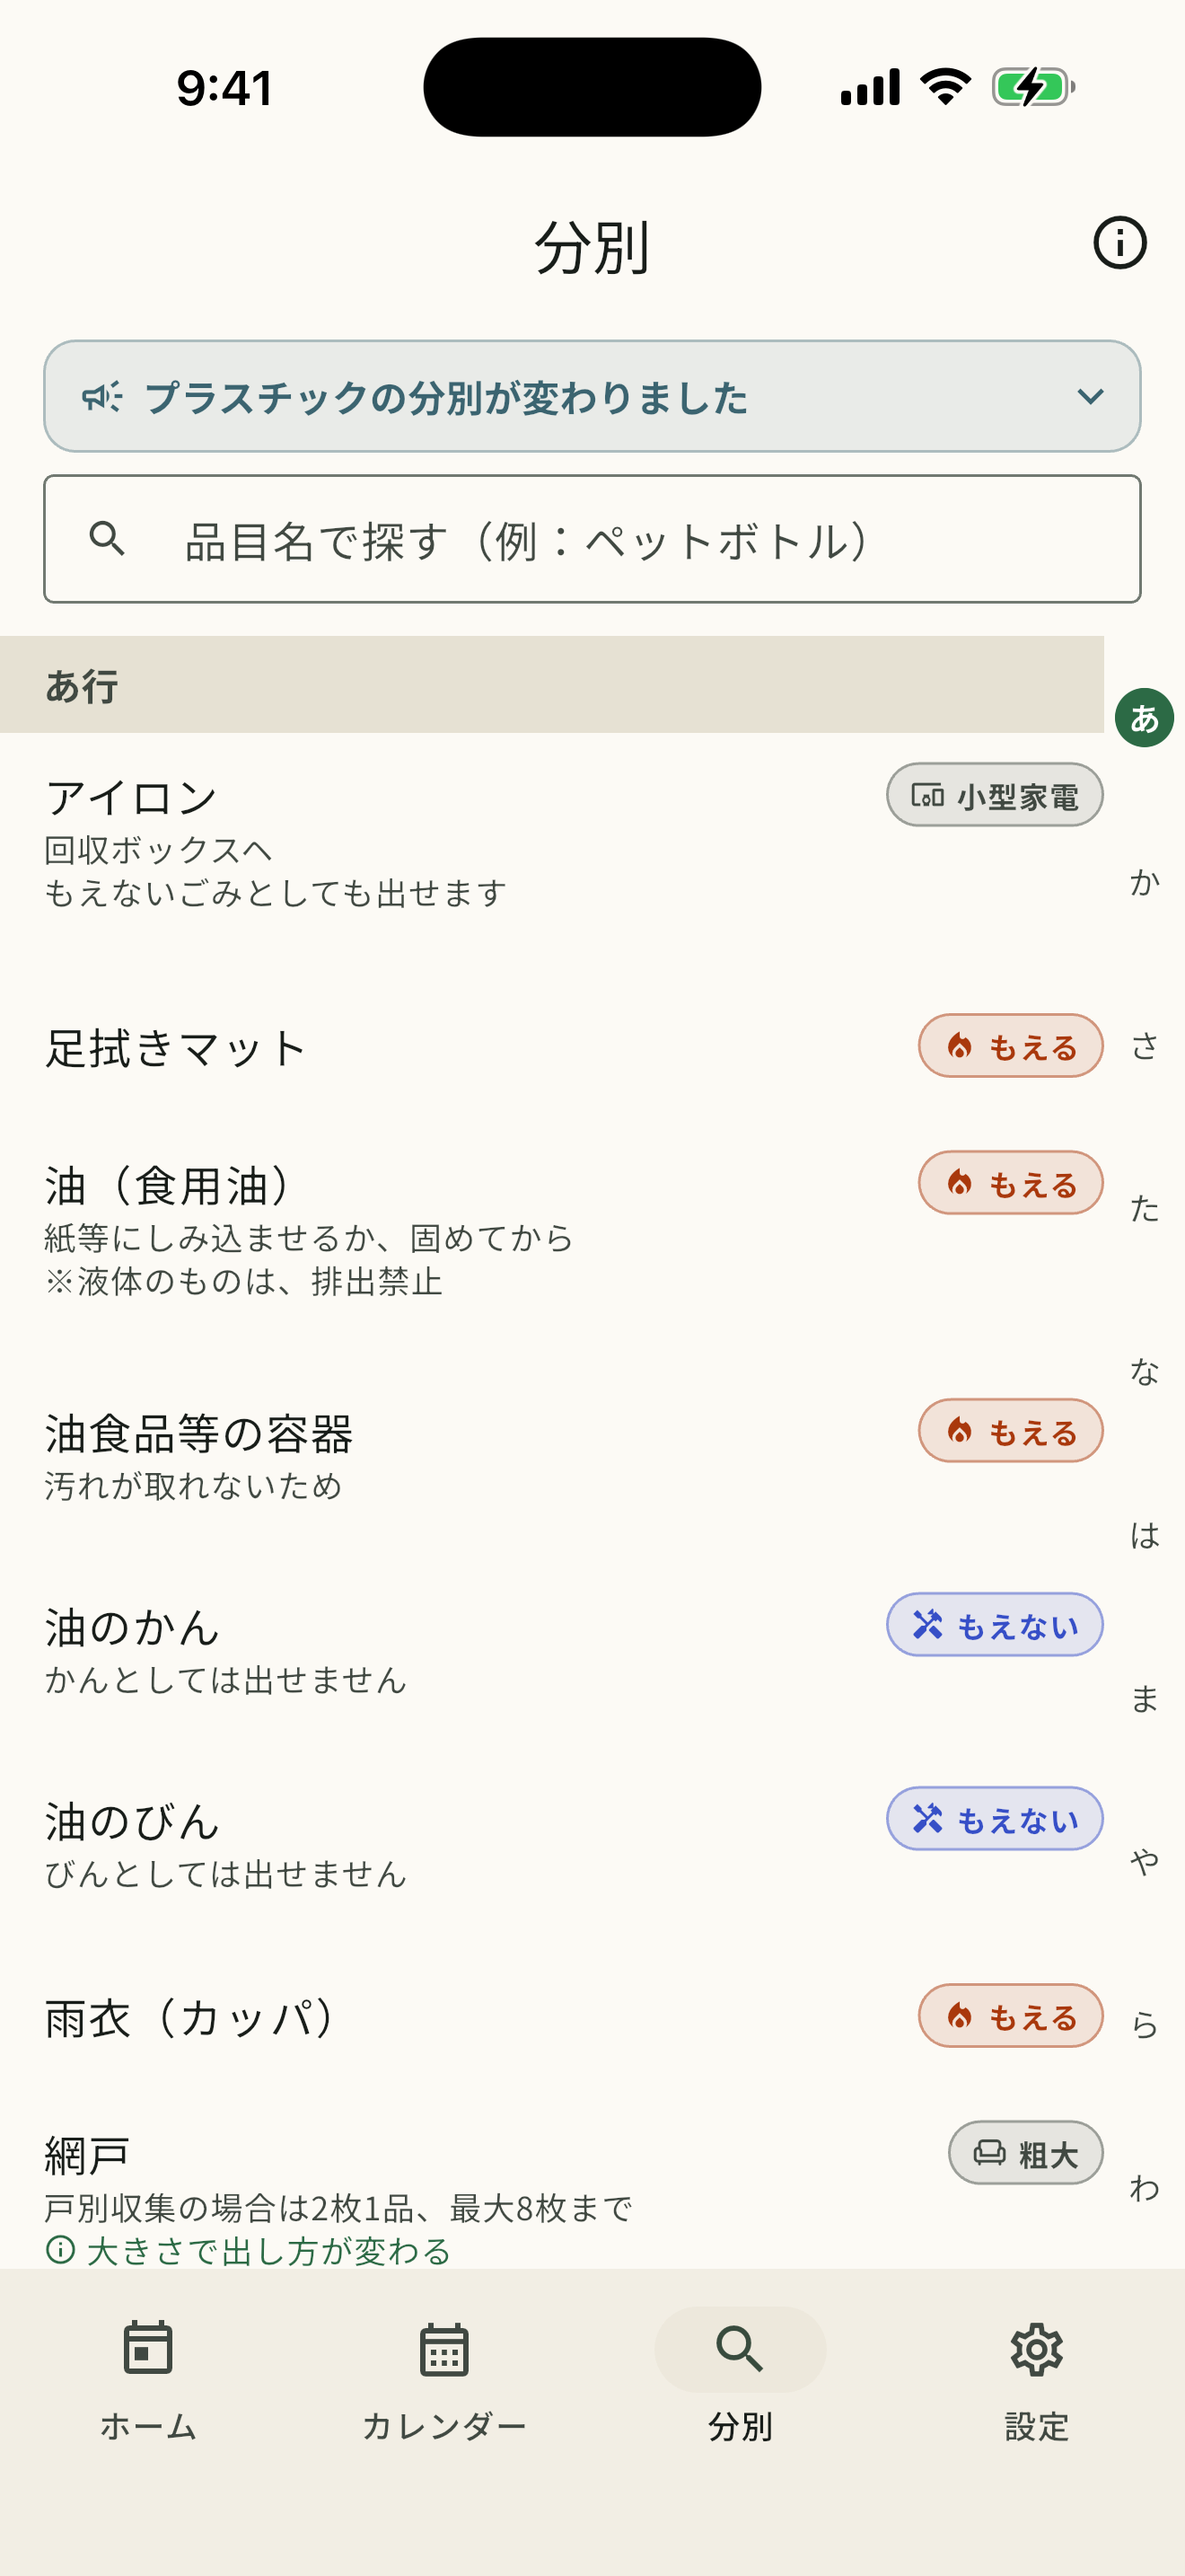
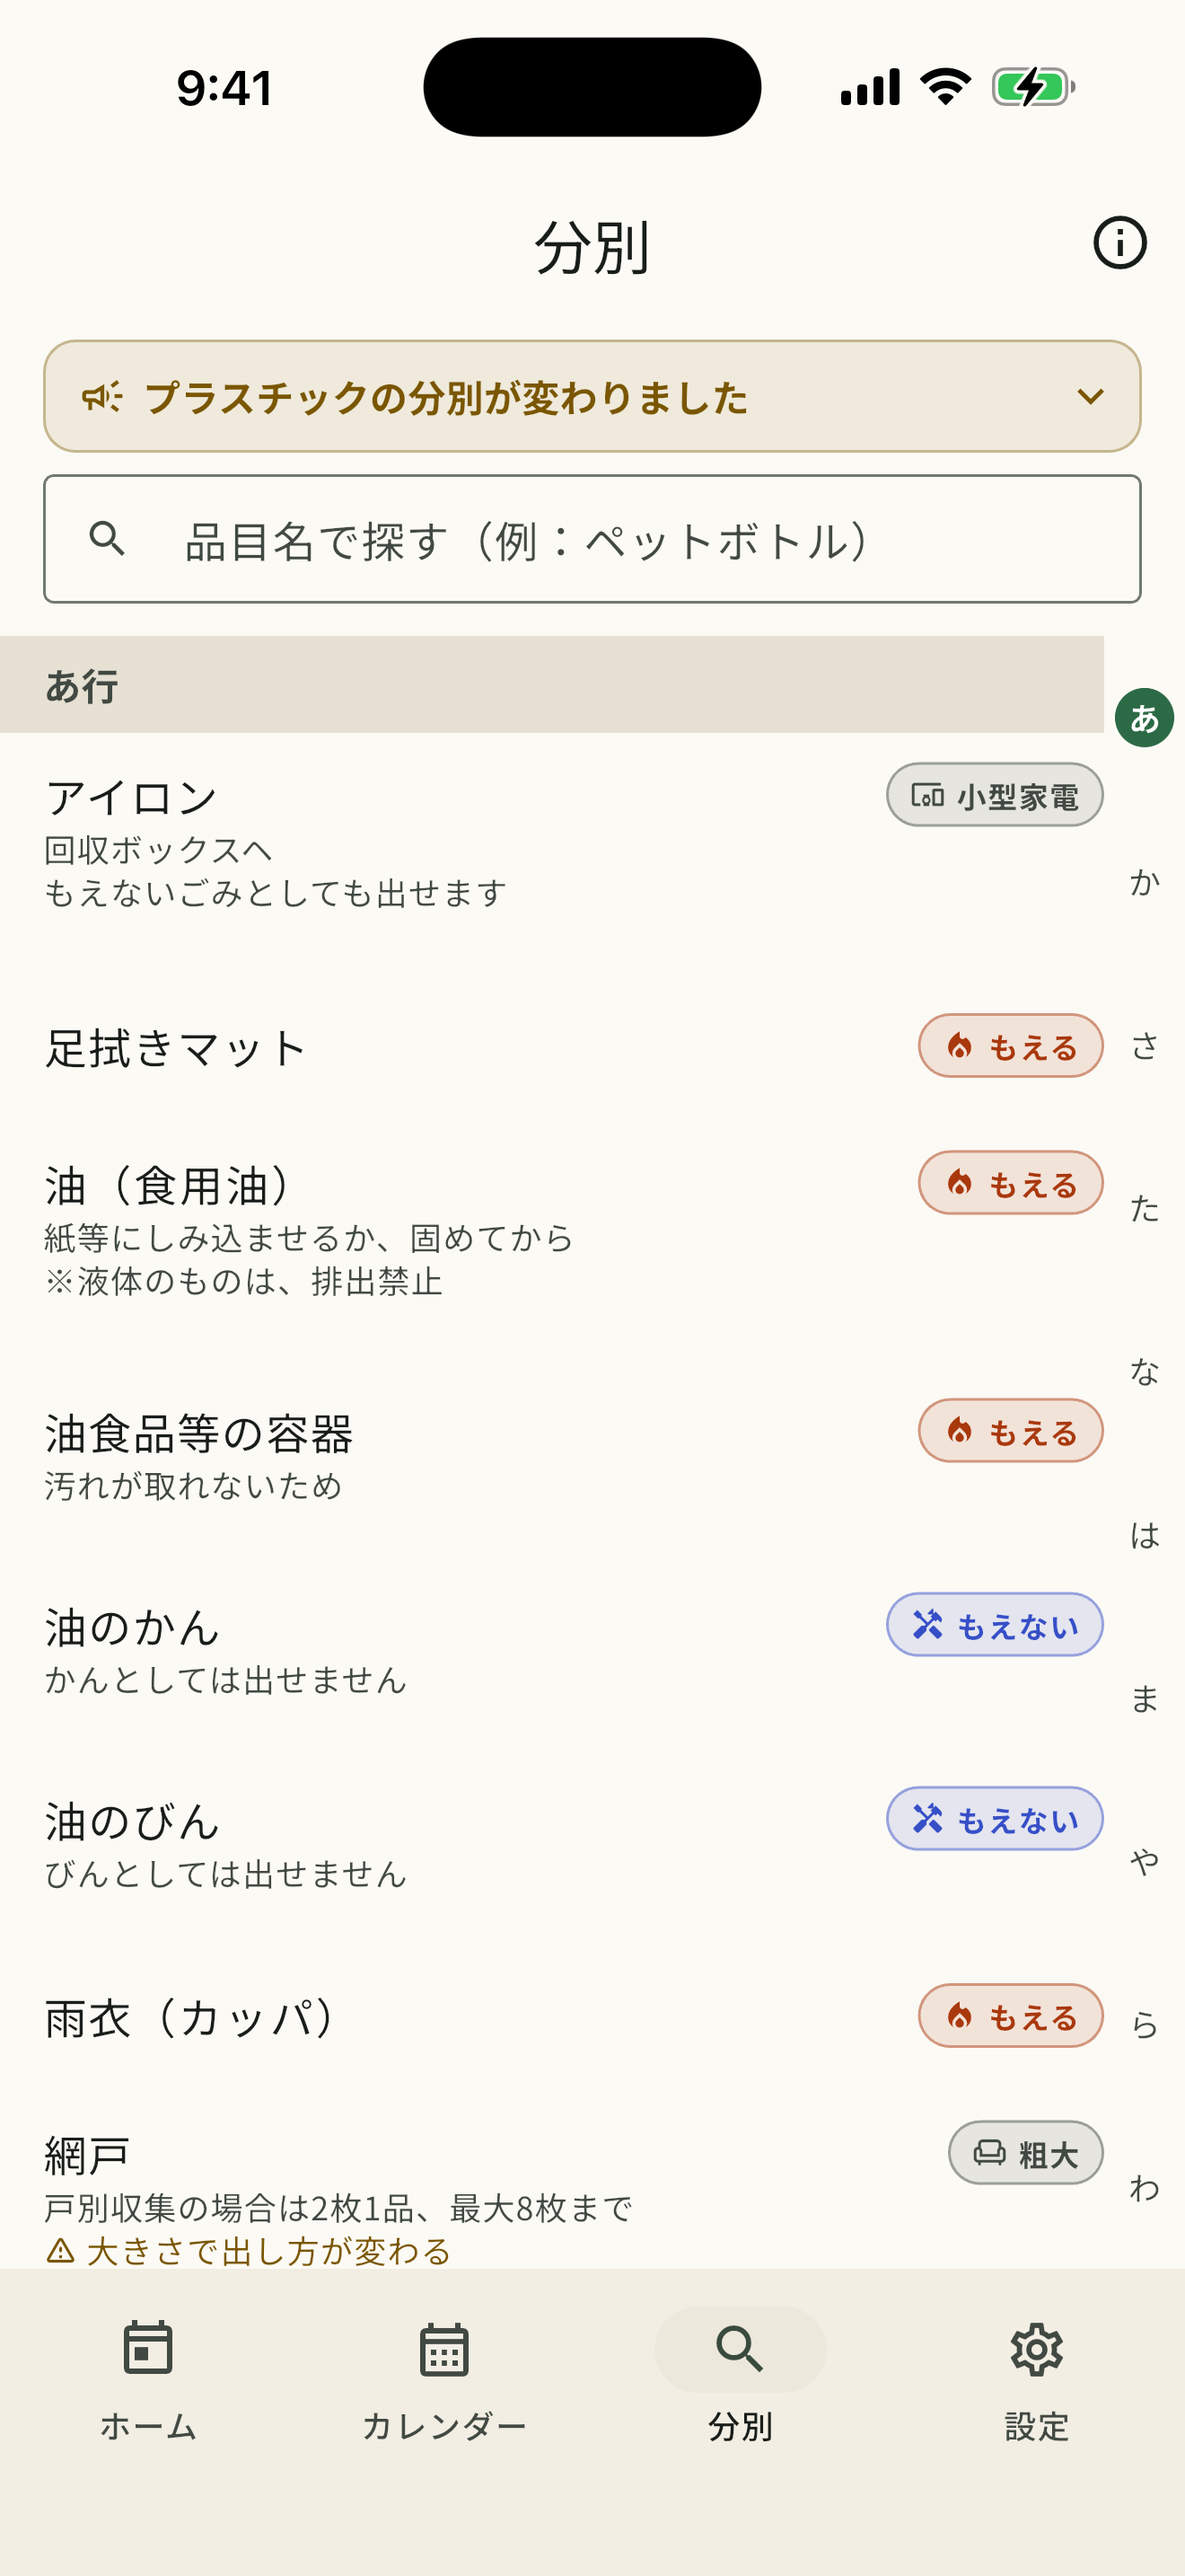
知らせと品目の印を、同じ注意の色（黄）で出す
分別変更の知らせは青みのグレー、品目の印は主色の緑で出していて、#163で
分別の変更を伝える印だけを知らせの色に寄せた。しかし印はどれも、一覧の
区分だけを見て出すと間違えることを伝えるもので、分ける理由がない。
緑では「できる・よい」の意味に読めて、注意に見えない。

知らせも印も、同じ注意の色（黄）で出す。印の絵は情報（i）から注意（三角）に
する。

- lightは黄土色（#7A5600）。黄色そのものはクリームの地の上では読めない。
  知らせの地（同じ色を10%で敷いたもの）の上でも4.5:1を超える
- darkは黄（#FFD43B）
- 赤にはしない。もえるごみ・有害危険ごみの区分色と紛れ、「出しては
  いけない」の意味にも読める

知らせの色が変わるので、分別のスクリーンショットを撮り直した。
ビルド番号を28に上げる。

Claude-Session: https://claude.ai/code/session_01Ny9iz78XEEn5LZebqm3xXE

diff --git a/lib/features/dictionary/dictionary_page.dart b/lib/features/dictionary/dictionary_page.dart
@@ -7,6 +7,7 @@ import '../../domain/kana.dart';
 import '../../domain/sorting_change.dart';
 import '../../domain/waste_item.dart';
 import '../../providers.dart';
+import '../../ui/caution_style.dart';
 import '../../ui/note_format.dart';
 import '../../ui/paren_wrap.dart';
 import '../../ui/widgets/category_pill.dart';
@@ -358,15 +359,14 @@ class _SortingChangeNotice extends StatelessWidget {
   @override
   Widget build(BuildContext context) {
     final theme = Theme.of(context);
-    // 区分色と紛れないよう、注意そのものの色（エラー色）は使わない。
-    final color = theme.colorScheme.tertiary;
+    final color = CautionStyle.colorOf(context);
     final radius = BorderRadius.circular(12);
 
     return Container(
       width: double.infinity,
       margin: const EdgeInsets.fromLTRB(16, 8, 16, 0),
       decoration: BoxDecoration(
-        color: color.withValues(alpha: 0.10),
+        color: color.withValues(alpha: CautionStyle.backgroundAlpha),
         borderRadius: radius,
         border: Border.all(color: color.withValues(alpha: 0.35)),
       ),
@@ -788,12 +788,10 @@ class _ItemTile extends StatelessWidget {
               ),
             );
     }
-    // 分別の変更を伝える印は、画面の上の知らせと同じ色・同じ絵にする。
-    // ほかの印と同じ色だと、区分が変わりうることが補足に見えてしまう。
+    // 印は、画面の上の知らせと同じ注意の色で出す。どれも、一覧の区分だけを
+    // 見て出すと間違えることを伝えている。主色の緑では補足に見える。
     final mark = item.marks.first;
-    final markColor = mark.isSortingChange
-        ? theme.colorScheme.tertiary
-        : theme.colorScheme.primary;
+    final markColor = CautionStyle.color(theme.brightness);
     // 押せば続きがあることを、行の中で示す。注意点と同じ行に並べると
     // どちらも半端に切れるので、下に重ねる。
     return Column(
@@ -811,13 +809,7 @@ class _ItemTile extends StatelessWidget {
           ),
         Row(
           children: [
-            Icon(
-              mark.isSortingChange
-                  ? Icons.campaign_outlined
-                  : Icons.info_outline,
-              size: 13,
-              color: markColor,
-            ),
+            Icon(Icons.warning_amber_rounded, size: 13, color: markColor),
             const SizedBox(width: 3),
             Expanded(
               child: Text(

diff --git a/test/ui/caution_style_test.dart b/test/ui/caution_style_test.dart
@@ -1,0 +1,60 @@
+import 'dart:math' as math;
+
+import 'package:flutter/material.dart';
+import 'package:flutter_test/flutter_test.dart';
+import 'package:saitama_gomi/app.dart';
+import 'package:saitama_gomi/domain/garbage_category.dart';
+import 'package:saitama_gomi/ui/caution_style.dart';
+import 'package:saitama_gomi/ui/category_style.dart';
+
+/// 注意の色が、実際の使われ方でWCAG 2.1のコントラスト比を満たすかを確かめる。
+///
+/// 黄色は明るい地の上で読めなくなりやすい。知らせは同じ色を薄く敷いた地の上に
+/// 見出しを置き、品目の印は素の地の上に12pxの文字で置く。どちらも通常サイズの
+/// 文字なので、基準は4.5:1。
+double _linearize(double c) =>
+    c <= 0.03928 ? c / 12.92 : math.pow((c + 0.055) / 1.055, 2.4).toDouble();
+
+double _relativeLuminance(Color c) =>
+    0.2126 * _linearize(c.r) +
+    0.7152 * _linearize(c.g) +
+    0.0722 * _linearize(c.b);
+
+double _contrastRatio(Color a, Color b) {
+  final la = _relativeLuminance(a);
+  final lb = _relativeLuminance(b);
+  return (math.max(la, lb) + 0.05) / (math.min(la, lb) + 0.05);
+}
+
+void main() {
+  for (final brightness in Brightness.values) {
+    final surface = SaitamaGomiApp.surfaceOf(brightness);
+    final color = CautionStyle.color(brightness);
+
+    group('${brightness.name}モードの注意の色', () {
+      test('素の地の上で読める（品目の印）', () {
+        expect(_contrastRatio(color, surface), greaterThanOrEqualTo(4.5));
+      });
+
+      test('同じ色を薄く敷いた地の上で読める（知らせの見出し）', () {
+        final background = Color.lerp(
+          surface,
+          color,
+          CautionStyle.backgroundAlpha,
+        )!;
+        expect(_contrastRatio(color, background), greaterThanOrEqualTo(4.5));
+      });
+
+      test('区分の色と同じ色ではない', () {
+        // 印は区分のピルのすぐ下に出る。同じ色だと区分の一部に見える。
+        for (final category in GarbageCategory.values) {
+          expect(
+            color,
+            isNot(CategoryStyle.of(category).color(brightness)),
+            reason: category.id,
+          );
+        }
+      });
+    });
+  }
+}

diff --git a/lib/ui/caution_style.dart b/lib/ui/caution_style.dart
@@ -1,0 +1,30 @@
+import 'package:flutter/material.dart';
+
+/// 「注意して読んでほしい」ことを示す色。
+///
+/// 分別の変更の知らせと、品目に付いた印（「大きさで出し方が変わる」
+/// 「プラスチック製で30cm未満なら資源物1類」など）に使う。どちらも、
+/// 一覧の区分だけを見て出すと間違えることを伝えるもので、補足ではない。
+/// アプリの主色（緑）で出すと「できる・よい」の意味に読めてしまうので、
+/// 注意の色（黄）にする。
+///
+/// 赤にはしない。もえるごみ（橙）・有害危険ごみ（赤）の区分色と紛れるうえ、
+/// 「出してはいけない」の意味に読める。
+///
+/// 黄色そのものはクリームの地の上では読めないので、lightは明度を落とした
+/// 黄土色にしてある。知らせは同じ色を10%で敷いた地の上に文字を置くので、
+/// そこで4.5:1（WCAG 2.1の通常テキストの基準）を超える色を選んだ。
+/// この検証は test/ui/caution_style_test.dart に常設している。
+abstract final class CautionStyle {
+  static const light = Color(0xFF7A5600);
+  static const dark = Color(0xFFFFD43B);
+
+  /// 知らせの地に敷く濃さ。
+  static const backgroundAlpha = 0.10;
+
+  static Color color(Brightness brightness) =>
+      brightness == Brightness.dark ? dark : light;
+
+  static Color colorOf(BuildContext context) =>
+      color(Theme.of(context).brightness);
+}

diff --git a/lib/domain/waste_note.dart b/lib/domain/waste_note.dart
@@ -9,17 +9,9 @@ class NoteMark {
     required this.id,
     required this.title,
     required this.description,
-    this.isSortingChange = false,
   });
 
   final String id;
-
-  /// 分別の決まりが変わったことを伝える印か。
-  ///
-  /// ほかの印は一覧の区分を補うものだが、これは区分そのものが変わりうる
-  /// ことを言っている。見落とすと出し先を間違えるので、画面では
-  /// 分別変更の知らせと同じ色で出して、ほかの印と見分けられるようにする。
-  final bool isSortingChange;
 
   /// 一覧やシートの見出しに出す短い言い方。
   final String title;
@@ -43,7 +35,6 @@ class NoteMark {
           '30cm未満のものは、資源物1類（プラスチック資源）に出します。'
           '水で軽くすすいでも汚れが落ちないものはもえるごみ、'
           '30cm以上90cm未満のものはもえないごみです。',
-      isSortingChange: true,
     ),
     'star1': NoteMark(
       id: 'star1',
@@ -70,7 +61,6 @@ class NoteMark {
       description:
           '令和8年（2026年）10月から、プラスチック製で30cm以上90cm未満のものは'
           'もえないごみです。',
-      isSortingChange: true,
     ),
     'star5': NoteMark(
       id: 'star5',

diff --git a/lib/features/dictionary/waste_item_sheet.dart b/lib/features/dictionary/waste_item_sheet.dart
@@ -2,6 +2,7 @@ import 'package:flutter/material.dart';
 import 'package:url_launcher/url_launcher.dart';
 
 import '../../domain/waste_item.dart';
+import '../../ui/caution_style.dart';
 import '../../ui/note_format.dart';
 import '../../ui/paren_wrap.dart';
 import '../../ui/widgets/category_pill.dart';
@@ -70,10 +71,8 @@ class _WasteItemSheet extends StatelessWidget {
                   mark.title,
                   style: theme.textTheme.titleSmall?.copyWith(
                     fontWeight: FontWeight.bold,
-                    // 分別の変更は、知らせと同じ色で出す。
-                    color: mark.isSortingChange
-                        ? theme.colorScheme.tertiary
-                        : theme.colorScheme.primary,
+                    // 一覧の行と同じ、注意の色。
+                    color: CautionStyle.colorOf(context),
                   ),
                 ),
                 const SizedBox(height: 4),

diff --git a/test/domain/waste_note_test.dart b/test/domain/waste_note_test.dart
@@ -10,19 +10,6 @@ void main() {
     expect(marks.first.description, contains('90cm以上2m未満'));
   });
 
-  test('分別の変更を伝える印は、ほかの印と見分けられる', () {
-    // 一覧の区分そのものが変わりうることを言っている印。見落とすと
-    // 出し先を間違えるので、画面では知らせと同じ色で出す。
-    final changes = NoteMark.resolve([
-      'box',
-      'star1',
-      'star2',
-      'star4',
-      'page9',
-    ]).where((m) => m.isSortingChange).map((m) => m.id);
-    expect(changes, ['box', 'star4']);
-  });
-
   test('知らない印は落とす', () {
     // 市が印を増やしても、古いアプリが空欄を出したり落ちたりしないように。
     expect(NoteMark.resolve(['star2', 'star99']).map((m) => m.id), ['star2']);

diff --git a/docs/requirements.md b/docs/requirements.md
@@ -169,6 +169,12 @@
   決められない（「おもちゃ」「バケツ」など）。推測で分類すると、市の情報と
   見分けのつかない誤りを混ぜることになるので、市が挙げている条件を
   そのまま渡して、利用者が自分で判断できるようにする
+- **注意して読んでほしいものは、注意の色（黄）で出す**：分別変更の知らせと、
+  品目に付いた印（「大きさで出し方が変わる」「プラスチック製で30cm未満なら
+  資源物1類」など）は、同じ色で出す（`lib/ui/caution_style.dart`）。どちらも、
+  一覧の区分だけを見て出すと間違えることを伝えるもので、補足ではない。
+  主色の緑では「できる・よい」の意味に読める。赤にはしない。もえるごみ・
+  有害危険ごみの区分色と紛れ、「出してはいけない」の意味にも読めるため
 - **冊子の印は言葉にする**：早見表は紙の冊子なので、注意点に「★2」
   「▶P9参照」といった印だけを置き、意味は脚注や別のページにある。
   冊子を持たない利用者には通じないので、抽出のときに本文から切り出し

diff --git a/store_assets/app_store/1.3.0.md b/store_assets/app_store/1.3.0.md
@@ -1,7 +1,7 @@
 # 1.3.0 の App Store 提出用文言
 
-1.2.0（ビルド24）から1.3.0（ビルド27）で変わったところをもとに書いた文言。
-ビルド25・26は実機確認で見つかった点を直す前のもので、提出には使わない。
+1.2.0（ビルド24）から1.3.0（ビルド28）で変わったところをもとに書いた文言。
+ビルド25〜27は実機確認で見つかった点を直す前のもので、提出には使わない。
 
 **まだ提出していない。** 実機での確認（#157）が済んでから出す。
 
